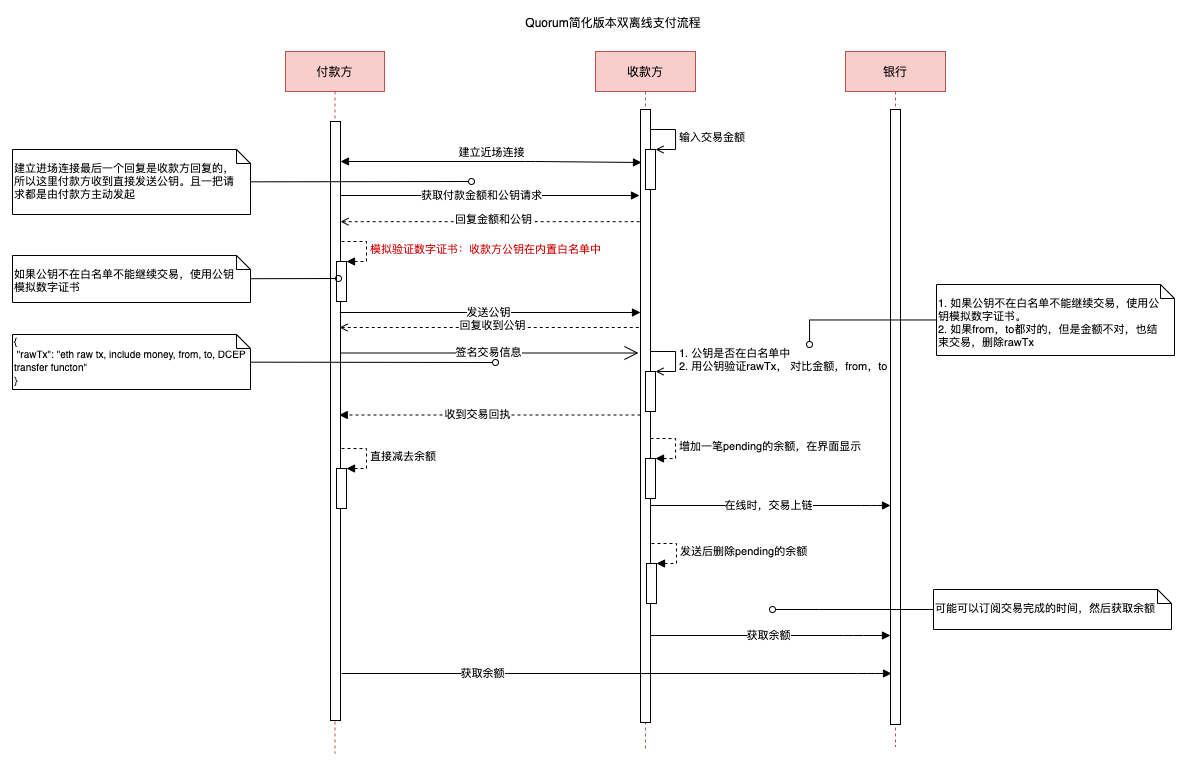
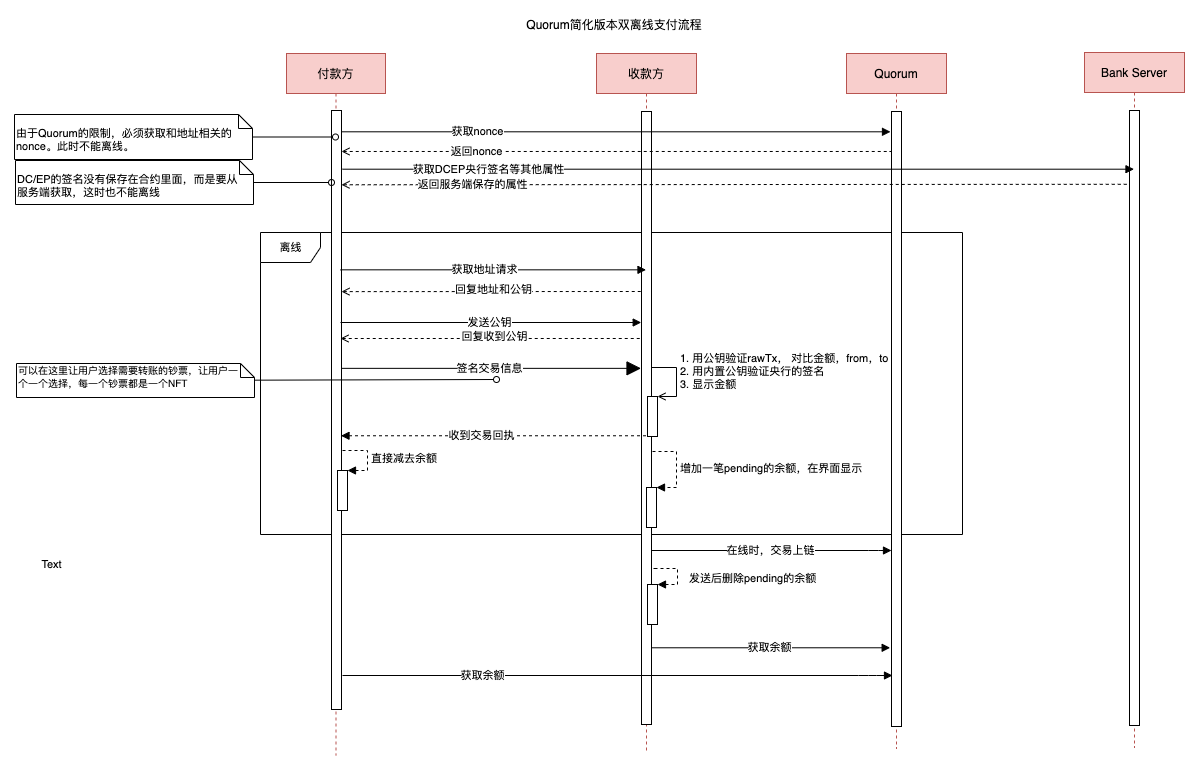
doc(14): 基于quorum的流程图

diff --git a/docs/adr/0011-双离线支付.md b/docs/adr/0011-双离线支付.md
@@ -19,8 +19,15 @@ Date: 2020-08-25
 1. [《DCEP相关媒体》](../DCEP相关媒体.md)，该文章里面有一些产品设计和技术方案的信息，作为本文档的输入。
 2. [《双离线支付方案》](https://docs.google.com/document/d/1Sp5wKWdYV3GXQXScWi0MEbQ9cA7kZjK39ranVAFapmg/edit)，倩倩和张诚的调研，本文档在于进一步细化该文档到落地级别。
 
+DCEP或将采用“一币两库三中心”架构，两库指的是央行发行库和商业银行的银行库，三中心包括认证中心、登记中心和大数据分析中心。这其中，认证中心负责央行数字货币机构及用户的真实身份信息采集等管理工作。登记中心负责记录数字货币和用户钱包记录 ，完成权属登记，同时记录数字货币发行、转移、回笼全过程信息。大数据分析中心旨在运用大数据分析DCEP的 发行 、流通 、贮藏等，具有反洗钱 、支付行为分析、监管调控指标分析等功能。
 
-## 设计
+## 核心目标
+
+1. DECP的建模
+2. 防伪
+3. 防双花
+
+## 复杂版本的设计
 
 ### 前提条件
 
@@ -71,7 +78,7 @@ Date: 2020-08-25
 
 图的源文件在 https://app.diagrams.net/#G1NFN4hWRI1npXVk9iC4ldqX8gEFdyRyrH
 
-### 兑换
+### 发行兑换
 
 1. 用户 A 兑换任意金额的 DCEP（简化版本，默认10元，不需要支付任何东西）
 2. 系统派发商业银行Bank签名的 DCEP，格式如下：
@@ -83,40 +90,7 @@ Date: 2020-08-25
 4. 验签成功，系统提示入账 10 元 DCEP
 5. 验签失败，系统提示“兑换失败，请稍后重试”
 
-## 结论
-
-1. 由于DCEP还没有推出，我们的后台仍然使用quorum去模拟该产品，所以有一些需要妥协的地方
-2. 由于时间关系，我们主要的投入点仍然在流程的打通和POC的建立，所以一些安全性和完整性等细节方面，我们只能在ADR和调研文档中提及，在代码级别需要妥协。
-
-### 决定妥协的部分
-
-| 原方案 | 妥协成 |
-| --- | --- |
-| 安全的通信通道 | 不考虑 |
-| APP的数字证书及其验证 | 不考虑APP的合法性 |
-| 双方的数字证书及其验证 | 不验证双方的身份，相信其发送的公钥是其本人的 |
-| 商业银行的数字证书 | 现有 DCEP 合约是 ERC20，无序验证，如果需要模拟 UTXO 模型，需要重写合约 |
-| 央行的数字证书 | APP 内置商业银行的公钥，验证 |
-| 交易回执收不到的情况 | 收款方上线同步交易，付款方再次获取交易成功回执，不做蓝牙状态的恢复 |
-| 上线后通知交易成功 | 改为轮询 |
-| 链式转移 DCEP | 不支持，没有上线确认状态为不可用 | 
-| 余额是由钱包决定还是由银行系统决定 | 目前定位由quorum模拟银行，quorum中有账本 |
-| TEE，SE，TPM |  证书，私钥的存贮和计算，不考虑安全的执行环境和存储 | 
-
-### 基于 Quorum 的流程图
-
-![](../images/DCEP研讨-双离线-quorum简化版.png)
-
-### quorum 的限制
-
-| 限制 | 原因 | 解决方法|
-| --- | --- | --- |
-| DCEP 商业银行的数字证书 | 没有 | 1. 不建模 2.如果需要可以用智能合约建模 |
-| DID | 不能联网，无法使用 | 1. 互传公钥，用白名单 2.也可以使用多级证书机制 |
-| nonce 获取不到 | 不能联网 |  1. 付款方需要先联网获取 nonce， 然后才能双离线 2. 换链 3. 付款方上线后发送交易，但是会导致协议不合理 |  
-
-
-## 方案制定过程中的疑问记录
+## 复杂版本方案制定过程中的疑问记录
 
 1. 验证官方的APP，是否增加合法APP公钥？
 	1. 这个可以在蓝牙连接的时候做，检测app的证书
@@ -133,7 +107,7 @@ Date: 2020-08-25
    4. 如果一个钱包在线上把钱花完了，另一个钱包同时正在离线支付，收款方上线后发现钱已经被花了，则只能追责
    5. 可以由硬件绑定一批次的 DCEP，相同的 DCEP 不能同时存在于两个钱包
 6. 付款方数字证书的问题
-	3. 没有数字证书<交易公钥，电话，身份证>，就有可能被盗取一笔签名的交易去双花
+	1. 没有数字证书<交易公钥，电话，身份证>，就有可能被盗取一笔签名的交易去双花
 		- 假定A用户签名了一笔交易
 		- 黑个H盗取了交易并使用该DCEP
 		- 如果不验证身份，只验证DCEP的合法性，就会留下漏洞（此处张诚认为概率很小，所以优先级低）
@@ -142,6 +116,55 @@ Date: 2020-08-25
 	4. 盗用别人的证书怎么办？（证书可能和安全硬件绑定了）
 6. 双方的时间需要对上吗，交易需要有时间戳吗？
    1. 暂时没想到有必要
+
+### 是否采取复杂版本的设计？
+
+1. 由于DC/EP还没有推出，我们的后台仍然使用Quorum去模拟该产品，所以有一些需要妥协的地方
+2. 由于时间关系，我们主要的投入点仍然在POC的建立，所以一些安全性和完整性等细节方面，我们只能在 ADR 和调研文档中提及，在代码级别需要妥协。
+
+## 基于Quorum版本的设计
+
+### 整体方案重要，但是POC决定妥协的部分
+
+| 原方案 | 妥协成 |
+| --- | --- |
+| 安全的通信通道 | 不考虑 |
+| APP的数字证书及其验证 | 不考虑APP的合法性 |
+| 双方的数字证书及其验证 | 不验证双方的身份，相信其发送的公钥是其本人的 |
+| 商业银行的数字证书 | 不考虑 |
+| 央行的数字证书 | APP 内置银行的公钥验证 |
+| 交易回执收不到的情况 | 收款方上线同步余额，不做蓝牙状态的恢复 |
+| 上线后通知交易成功 | 改为轮询 |
+| 链式转移 DCEP | 不支持，没有上线确认状态为不可用 | 
+| TEE，SE，TPM等硬件 |  不考虑安全的执行环境和存储 | 
+
+### quorum 的限制
+
+| 限制 | 原因 | 解决方法| 决定 |
+| --- | --- | --- | --- |
+| DCEP 的表达 | 以太坊是基于账本的，与DCEP模型不符合 | 1. 不建模 2.如果需要可以用智能合约建模 | 用 ERC721建模，用ERC1155支持批量转移 |
+| DID | 不能联网，无法使用 | 1. 互传公钥，用白名单 2.也可以使用多级证书机制 3. 不验证身份 | 不验证身份|
+| nonce 获取不到 | 不能联网 |  1. 付款方需要先联网获取 nonce， 然后才能双离线 2. 换链 3. 付款方上线后发送交易 |  方案1|
+| 银行的数字签名 | 以太坊并不需要 | 1. 不包含。2. 包含在智能合约。3. 包含在服务端 | 参考游戏的做法，每一个 NFT 都有一个 URI 从服务端获取属性 | 
+
+### DC/EP 建模
+
+使用 ERC721建模，用 ERC1155 支持批量转移：
+
+| 字段 | 含义 | 产生方法 |
+| --- | --- | --- |
+| 冠字号 | 人民币纸币上的编码，“冠字”是印在纸币上用来标记印刷批次的两个或三个英文字母，由印钞厂按一定规律编排和印刷；“号码”则是印在冠字后面的阿拉伯数字流水号，用来标明每张钞票在同冠字批次中的排列顺序 | 服务端生成，保存到合约，做为 NFT 的标识，比如 <CB_价值_序号>: CB_100_00000000000001标识100元 |
+| 基本加密密码 | 央行的主密码与面额数字 1，5，10，20，50，100 分别产生 6 个基本加密密码。这 6 个加密密码分别是用于不同面额的数字货币。| 由服务端指定 |
+| 主密码 | 和加密密码配合使用 | 有服务端指定|
+| 随机数加密 | 特点hash算法生成的随机数 | 服务端指定算法生成 |
+| 加密密码 | 基本加密密码与随机数加密两次加密过程，生成加密密码，这个加密密码即对应特定冠字号的DCEP数字货币 | 服务端拼一下 |
+| 央行签名 | 钞票的数字签名，服务端模拟央行，通过私钥对加密密码进行签名，此时一枚新的法定数字货币就产生了| 服务端签名提供URI获取|
+| 商业银行签名 |  作用：1. 盲签名那边要用 2. 两个主题，产品上更合理 | 服务端签名提供URI获取 |
+
+### 基于 Quorum 的流程图
+
+![](../images/DCEP研讨-双离线-quorum简化版.png)
+
 
 ## 参考文档：
 1. [公钥、私钥、签名、数字证书的关系(图文)](https://www.jianshu.com/p/3c5212b47bec)
